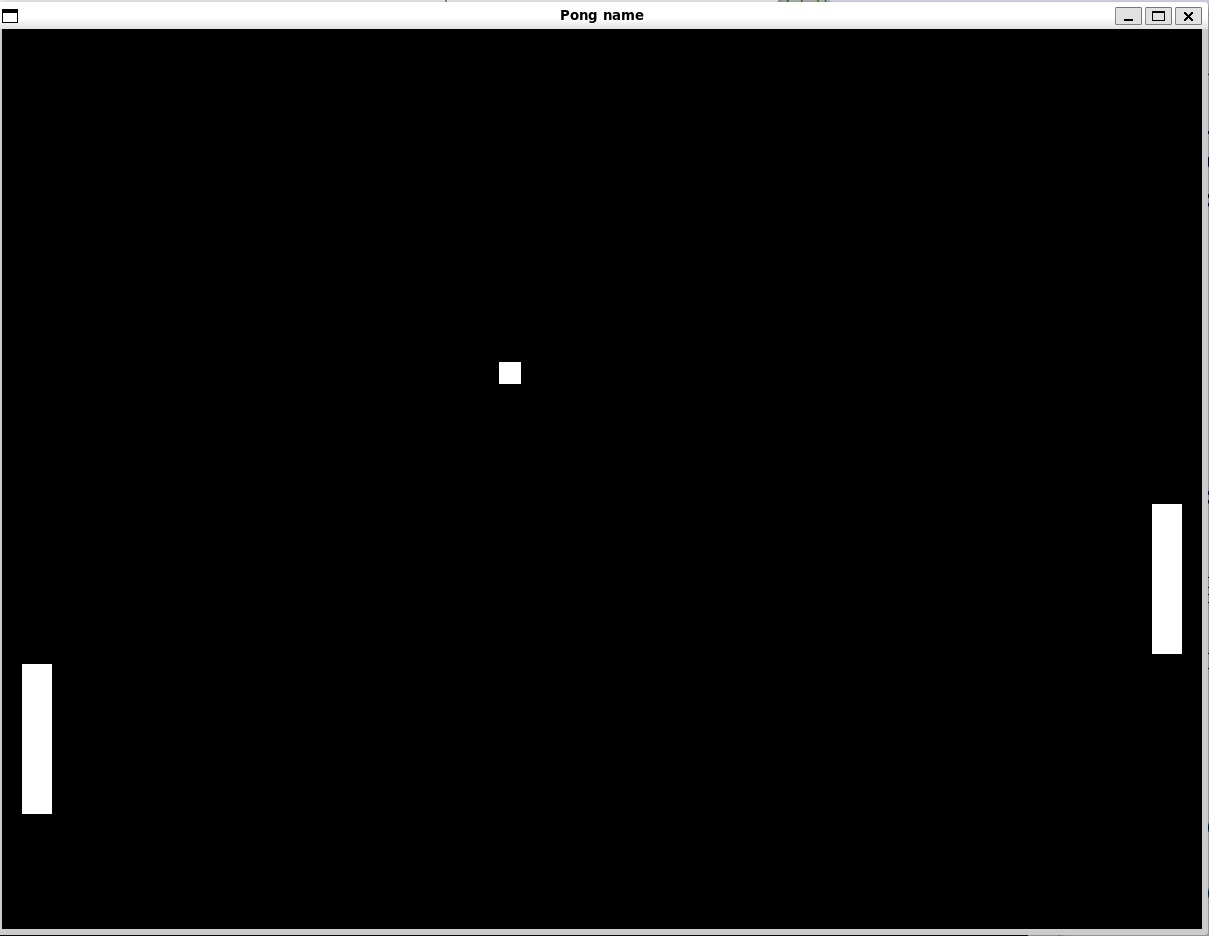
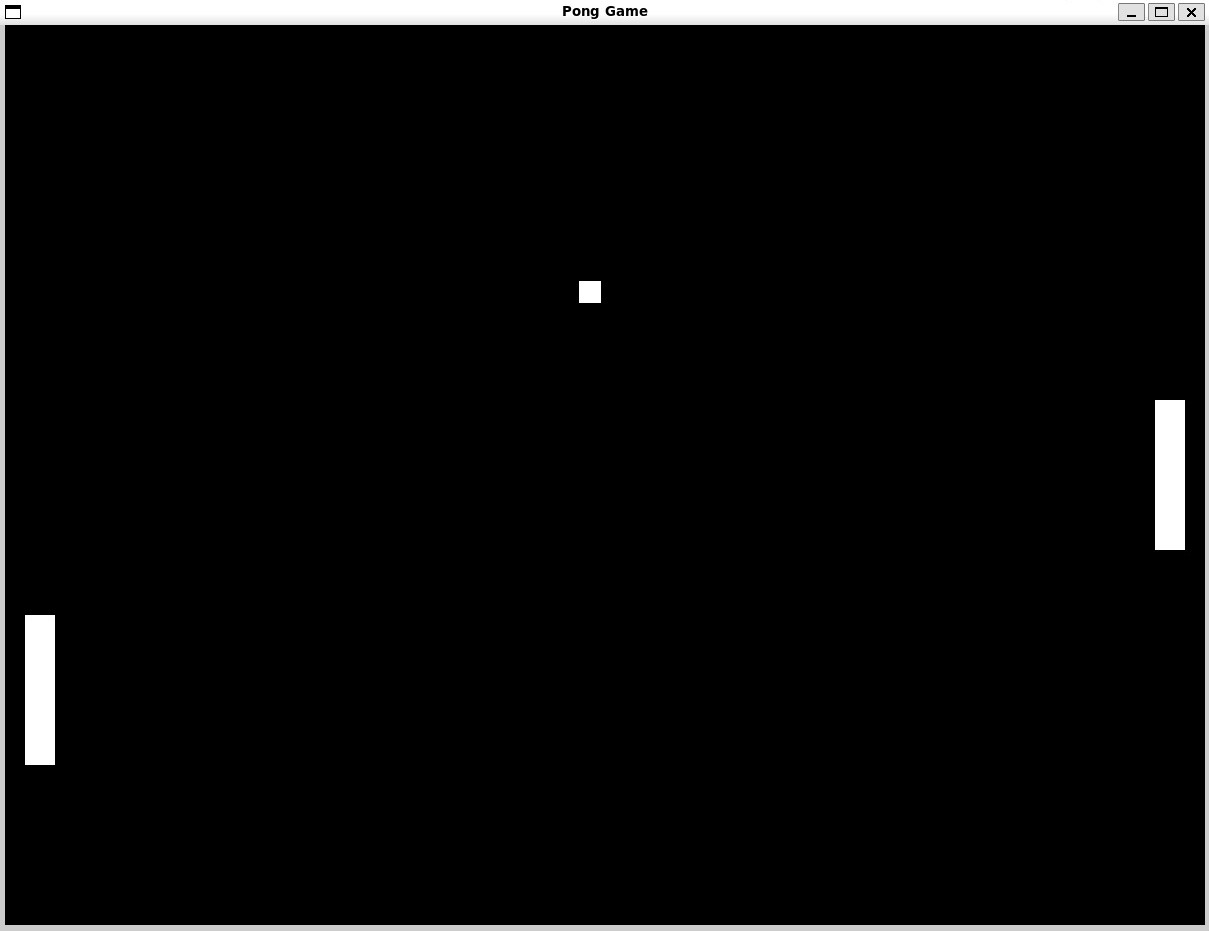
Naming fixed

diff --git a/pong.c b/pong.c
@@ -95,7 +95,7 @@ int main(){
         //                     	         int x, int y,      //position
 	//                               int w, int h,      //widht and height of the window
 	//                               Uint32 flags);     //keyword
-	SDL_Window* window = SDL_CreateWindow("Pong name",
+	SDL_Window* window = SDL_CreateWindow("Pong Game",
 					       SDL_WINDOWPOS_CENTERED, SDL_WINDOWPOS_CENTERED,
 					       WINDOW_WIDTH, WINDOW_HEIGHT, 
                                                0);
